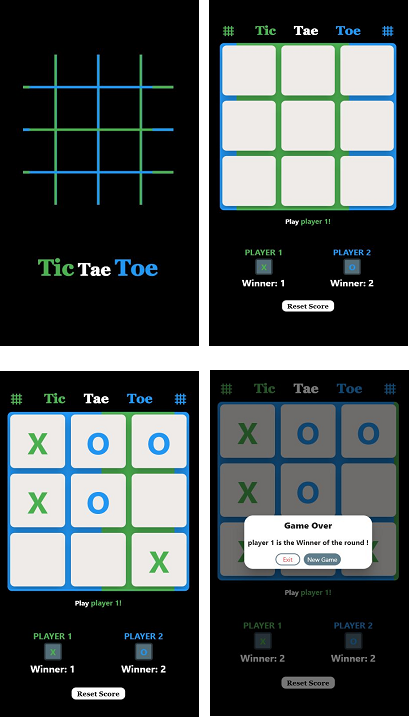
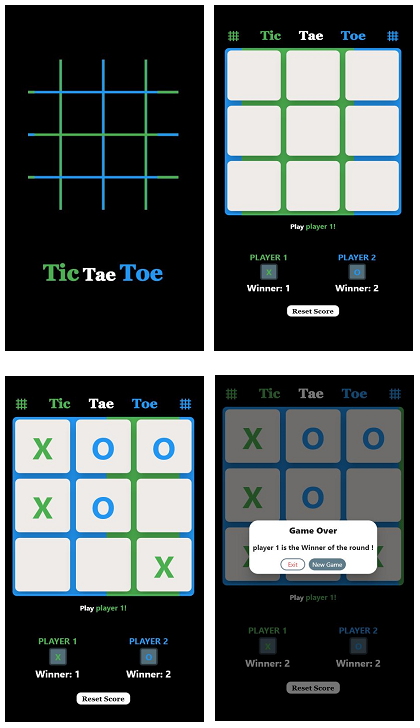
commit refresh readme.md and screenshots

Changed region(s): [[0.0, 0.0, 0.9905, 0.9973], [0.0619, 0.0604, 0.4333, 0.3022], [0.0929, 0.3324, 0.4024, 0.3929]]

diff --git a/README.md b/README.md
@@ -1,13 +1,3 @@
 # Tic_Tac_Toe - developed in Flutter
 
-<<<<<<< HEAD
 ![alt text](https://github.com/weskleydev/tic_tac_toe/blob/main/screenshots/screenshot.png)
-=======
-Tic Tac Toe developed in Flutter.
-
-![alt text](https://github.com/weskleydev/tic_tac_toe/blob/main/screenshots/splash_screen.JPG)
-![alt text](https://github.com/weskleydev/tic_tac_toe/blob/main/screenshots/tic-tac-toe_scrren1.JPG)
-![alt text](https://github.com/weskleydev/tic_tac_toe/blob/main/screenshots/tic-tac-toe_scrren2.JPG)
-![alt text](https://github.com/weskleydev/tic_tac_toe/blob/main/screenshots/tic-tac-toe_scrren3.JPG)
-
->>>>>>> 48d722a8464dff91bb7897a0ddea7cb3de044603
